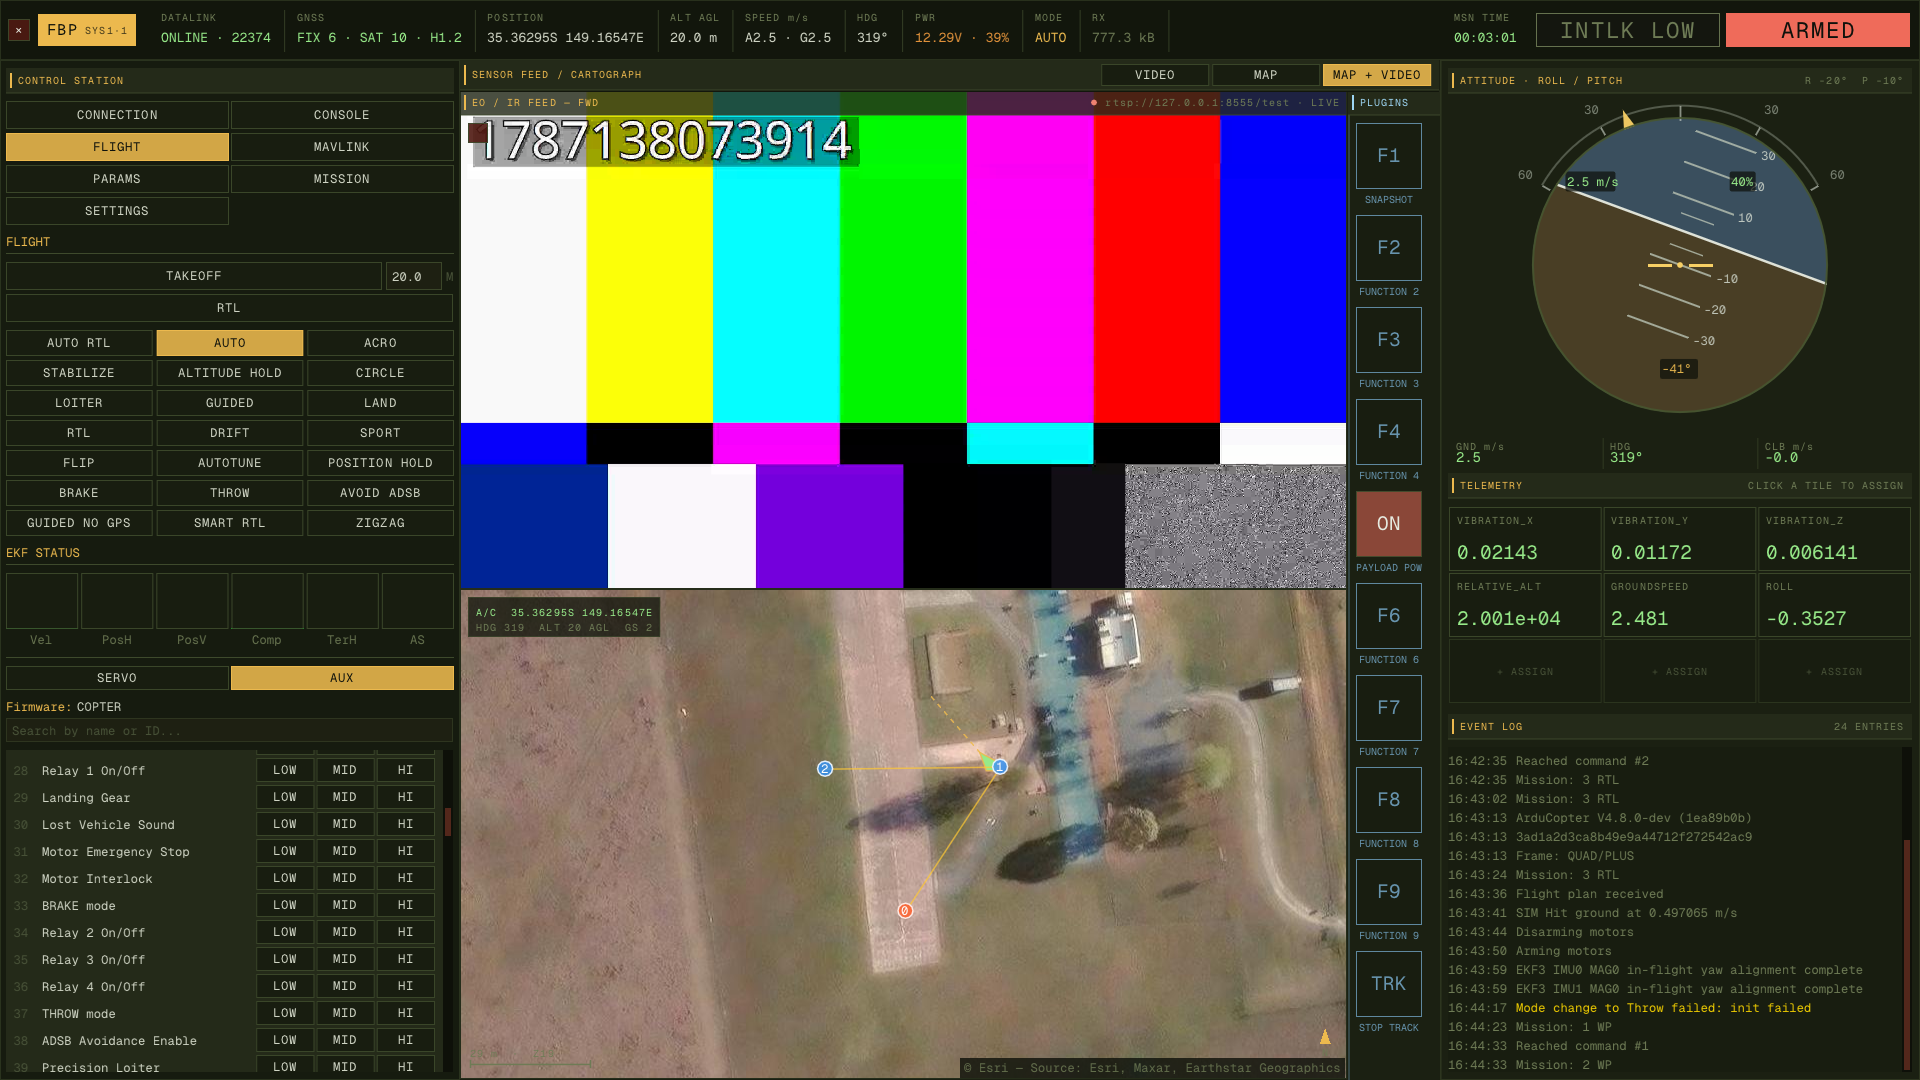
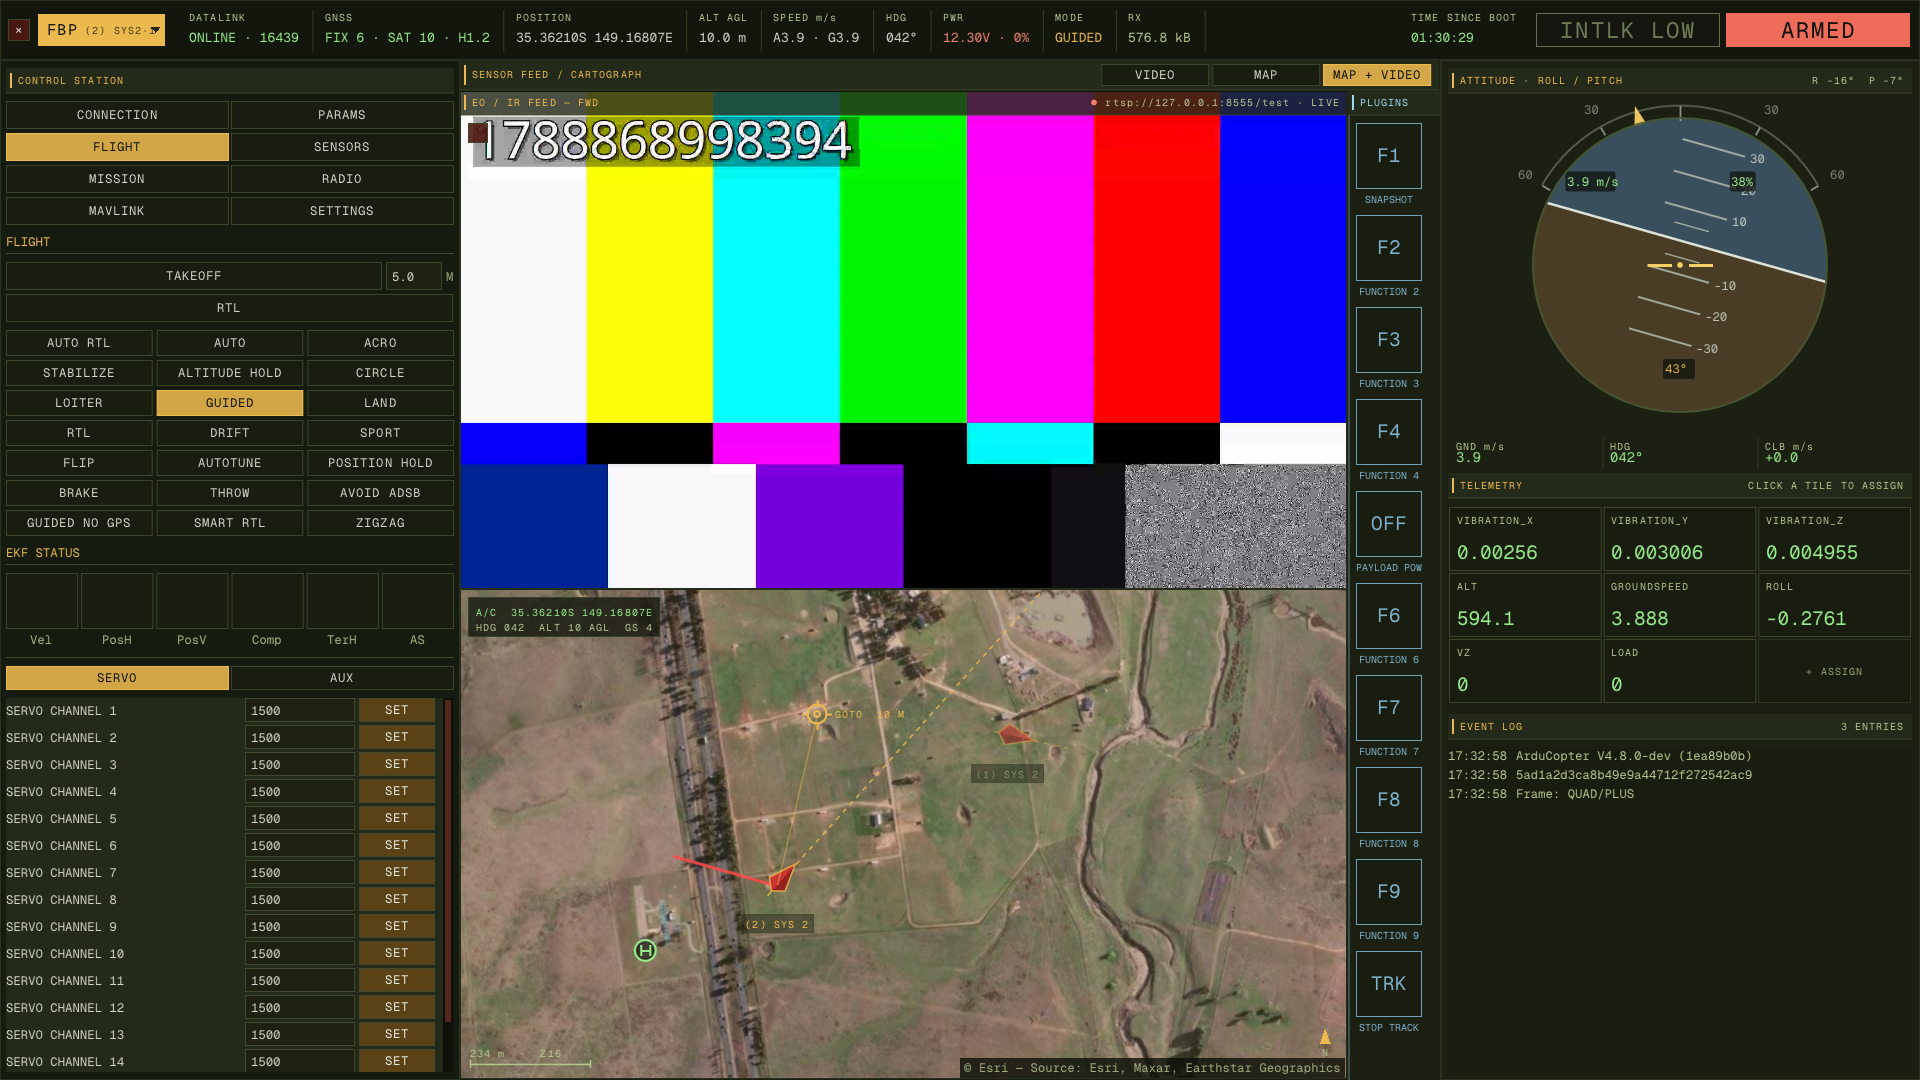
update README, add screenshots of tabs

diff --git a/README.md b/README.md
@@ -65,6 +65,8 @@ This GCS is designed for UAV professionals and enthusiasts already familiar with
 - **Vehicle switcher on the callsign chip**: the topbar chip already names the system on screen, so clicking it lists the fleet — sysid, armed state, and the link each was heard on. Every tab and panel follows the selection
 - **Per-vehicle panel state**: a compass calibration, a half-planned mission or a staged parameter edit belongs to the aircraft it was started on and is still there when you switch back. Nothing is carried across to a different vehicle
 - **Identified by link and sysid**: two airframes that both shipped as the factory default `SYSID_THISMAV` of 1 stay distinct instead of merging into one nonsensical vehicle; the switcher names the link so they can be told apart
+- **A number per vehicle**: the GCS hands each aircraft a short number on discovery, lowest free one first, and that number leads the callsign chip, the switcher rows and the label on every symbol on the map. It is the name a sysid cannot be, and it stays small — numbers are freed when a vehicle goes, so a fleet of three reads 1, 2, 3 rather than climbing all session
+- **The fleet on the map**: every vehicle with a position is drawn, each with its own trail and home pad. The panels still follow one aircraft, and the map says which by keeping it at full strength while the others are dimmed
 
 ### Connection
 - **Multiple transport layers**: UDP, TCP, Serial (Linux and Windows)
@@ -353,16 +355,41 @@ drop that one link.
 
 ### Switching Vehicles
 Every vehicle discovered on every link shows up in the switcher. Click the
-**callsign chip** in the topbar — the one reading `SYS1·1` — and pick from the
-list; it names each vehicle's sysid and the link it arrived on, so two aircraft
-that both report sysid 1 can still be told apart. The chip only grows a caret
-when there is more than one vehicle, so nothing changes when flying one.
+**callsign chip** in the topbar — the one reading `(1) SYS1·1` — and pick from
+the list; it names each vehicle's sysid and the link it arrived on, so two
+aircraft that both report sysid 1 can still be told apart. The chip only grows
+a caret when there is more than one vehicle, so nothing changes when flying one.
+
+The `(1)` is the GCS's own number for that vehicle, handed out on discovery,
+lowest free number first. A sysid is what an aircraft calls itself and is not
+usable as a name — two airframes fresh off the bench both answer to 1 — so the
+number is what the chip, the switcher rows and the symbols on the map all agree
+on. Numbers are freed when a vehicle goes, so a fleet of three reads 1, 2, 3
+rather than climbing all session.
 
 Everything follows the selection: telemetry, parameters, mission, radio,
 sensors, the inspector and the map. Panel state does not — a calibration or a
 mission you were editing stays with the aircraft it belongs to and is waiting
 when you switch back. Calibrations keep running on vehicles you are not looking
 at, and only the selected vehicle makes sound.
+
+### Flight Controls
+1. Navigate to the **FLIGHT** tab. Everything on it is disabled until a vehicle
+   is heard from, and says `(no link)` beside the header while it is
+2. **TAKEOFF** climbs to the altitude in the field beside it — metres above
+   home, the same datum GO HERE uses
+3. **RTL** returns to launch, and stays lit while RTL is the mode
+4. The mode grid is built from the vehicle's own **AVAILABLE_MODES** list where
+   it publishes one, since `custom_mode` numbering is per airframe — a Plane's
+   mode 4 is not a Copter's. Flight stacks that never answer fall back to the
+   ArduCopter table. The current mode is lit, and hovering a button gives the
+   full name the vehicle reported
+5. **EKF STATUS** below it shows variance bars for velocity, horizontal and
+   vertical position, compass, terrain and airspeed
+6. **SERVO** drives a servo output directly by PWM; **AUX** triggers any
+   auxiliary function the connected firmware implements
+
+![Flight tab](screens/flight.png)
 
 ### Parameter Workflow
 1. Navigate to **PARAMETERS** tab
@@ -386,6 +413,8 @@ can never offer to write a stale value back over a newer one.
 **DISCARD** asks for confirmation because a loaded parameter file can put
 hundreds of edits behind it and there is no undo. The per-row **×** does not:
 it can only lose one value, and the value it restores is on the vehicle.
+
+![Parameters tab](screens/params.png)
 
 #### Parameter files
 
@@ -435,6 +464,43 @@ precision so a saved value reloads as the same float rather than as an edit.
 7. Click **UPLOAD** to send mission to vehicle
 8. Click **CLEAR** to erase vehicle mission (zero waypoints)
 
+### The Map
+The map draws every vehicle that has a position, not only the one the panels
+are following. Each aircraft carries a label — `(2) SYS 1`, the GCS's number
+then the sysid it reports — and the selected one keeps full colour and a heading
+line run out to the edge of the panel, while the rest are dimmed with a short
+stub so three aircraft do not lay three dotted lines across the imagery.
+
+Behind each aircraft is its **trail**, recorded off the live stream rather than
+off what is on screen: an aircraft that flew while you were watching another one
+still has its track when you switch back. Points are thinned to one every 3 m,
+so a vehicle standing still does not smudge, and capped at 6000 — about 18 km of
+ground track. Each vehicle's **home**, from `HOME_POSITION`, is drawn as a
+helipad: an H inside its circle, in green so it reads as neither the aircraft
+nor an instruction to it.
+
+**GO HERE** — right-click anywhere on the map for a guided position target. The
+menu shows the coordinates under the cursor and an altitude, which starts at the
+height the vehicle is already holding, and **GO** sends it as
+`SET_POSITION_TARGET_GLOBAL_INT`. It only sends while the vehicle is in GUIDED,
+which is the only mode that acts on one; out of GUIDED the button is disabled
+and says why, rather than sending into silence. The target stays drawn as a
+ringed crosshair joined to the aircraft by a line until **CLEAR TARGET**. The
+same menu carries **CLEAR TRACK** for the trail.
+
+**MAP FULL** — with the map alone in the centre view, the map button relabels
+itself. Press it and the map takes the right sidebar's width and the plugin
+rail's column; the left sidebar stays, because the tabs are how a mission is
+planned and the map is what it is planned on. Attitude and the event log come
+back as a semi-transparent block in the map's top-right corner, small enough to
+read the map past. Click either half and it grows to the size it had in the
+sidebar, text and all, until you click somewhere else; it always comes back
+small the next time the map goes fullscreen. **ESC** or **EXIT FULL** restores.
+
+![Map Full](screens/cap2.png)
+
+
+
 ### Radio Calibration
 1. Fetch parameters first — **PARAMS → FETCH ALL**. Every WRITE on this tab is
    disabled until the vehicle's current values are known, and a red banner says so
@@ -460,6 +526,8 @@ Below the calibration: **BINDING** binds each axis to a channel (press
 **DETECT**, move that stick), sets ArduPilot's six flight-mode slots from the
 mode list the vehicle published, and binds an aux function to a channel. Each
 row writes on its own.
+
+![Radio tab](screens/radio.png)
 
 ### Sensor Calibration
 1. Fetch parameters first, as above — the device lists are read from them
@@ -487,6 +555,8 @@ busy. A run survives a tab switch and a vehicle switch — it belongs to the
 aircraft it was started on and keeps advancing while you look elsewhere — and is
 abandoned with a log line if the link drops.
 
+![Sensors tab](screens/sensor_calibration.png)
+
 ### MAVLink Inspector
 1. Navigate to **MAVLINK** tab
 2. View message ID, name, and receive rate in scrollable table
@@ -495,6 +565,8 @@ abandoned with a log line if the link drops.
    - Enter message ID (e.g., `33` for GLOBAL_POSITION_INT)
    - Set rate in Hz (e.g., `10`)
    - Click **SEND** to apply
+
+![MAVLink tab](screens/mavlink.png)
 
 ### Video Streaming
 1. Navigate to the **VIDEO** area
@@ -598,9 +670,10 @@ the serial handle, drains them.
 - **param_file.cpp**: `.params` reader/writer (Mission Planner / QGroundControl format)
 - **audio.cpp**: synthesised cue tones and accelerating progress ticks — lock-free voice pool mixed on the miniaudio callback
 - **widgets/**: Modular UI components (topbar, sidebars, map, video, telemetry panels)
+  - **goto_target.hpp** / **mission_pick.hpp**: The two-way state the map is driven through — a right-clicked position target and a waypoint being picked. The map never holds a sender; it reports what the operator asked for and the panel that owns the vehicle sends it
   - **vehicle_ui_state.hpp**: Panel state that belongs to a vehicle rather than a panel — a calibration in progress, staged parameter edits, the mission being planned — keyed by vehicle instead of held in a file-scope static, and dropped when that vehicle goes
   - **sidebar_left/**: Tab-based left panel (connection, flight, params, themes, mission, MAVLink, radio, sensors)
-  - **map_view.cpp**: Multi-threaded tile fetcher with OpenGL texture upload
+  - **map_view.cpp**: Multi-threaded tile fetcher with OpenGL texture upload, and everything drawn over it — the fleet's aircraft symbols and labels, per-vehicle trails, home pads, the mission overlay and the GO HERE menu
   - **video_player.cpp**: GStreamer pipeline wrapper with RGB frame extraction
   - **plugin_rail.cpp**: Button column driving the user plugins in `plugins/`
   - **mavlink_display_generated.cpp**: Auto-generated message field decoders (from MAVLink XML)
@@ -690,14 +763,14 @@ Example `settings.json`:
 - **OS support**: Linux and Windows are built and packaged by CI. macOS is not currently built or tested.
 - **No telemetry replay**: Live connections only; no `.tlog` or `.bin` file playback
 - **No geofence editor**: Geofence/rally point management not implemented yet
-- **One vehicle on screen at a time**: the backend carries the whole fleet, but the panels and the map draw the selected vehicle only — no side-by-side view, and no other aircraft shown on the map yet
+- **One vehicle in the panels at a time**: the map draws the whole fleet, but every other panel — telemetry, parameters, mission, radio, sensors, the inspector — follows the selected vehicle only. No side-by-side view
 - **One vehicle per link per sysid**: an aircraft reachable over two links at once appears as two entries rather than being recognised as one. Merging them wants a real identity to key on (the board UID) and is not done yet
 - **Fifteen vehicles**: each needs a MAVLink TX channel of its own so their sequence counters stay independent, and one of the sixteen is spent on the fallback used when nothing is connected. Past the cap a vehicle is logged and ignored rather than displacing one already there
 
 ## Future Plans
 
 - Implementations of "Console" and "ESC" tabs, for the MAVLink console and for ESC configuration with motor test.
-- Multi-vehicle UI: every aircraft on the map at once, and a way to watch more than one without switching
+- Multi-vehicle UI: a way to watch more than one aircraft's telemetry without switching between them
 - PX4 Support
 - macOS Support
 - Video AI features
